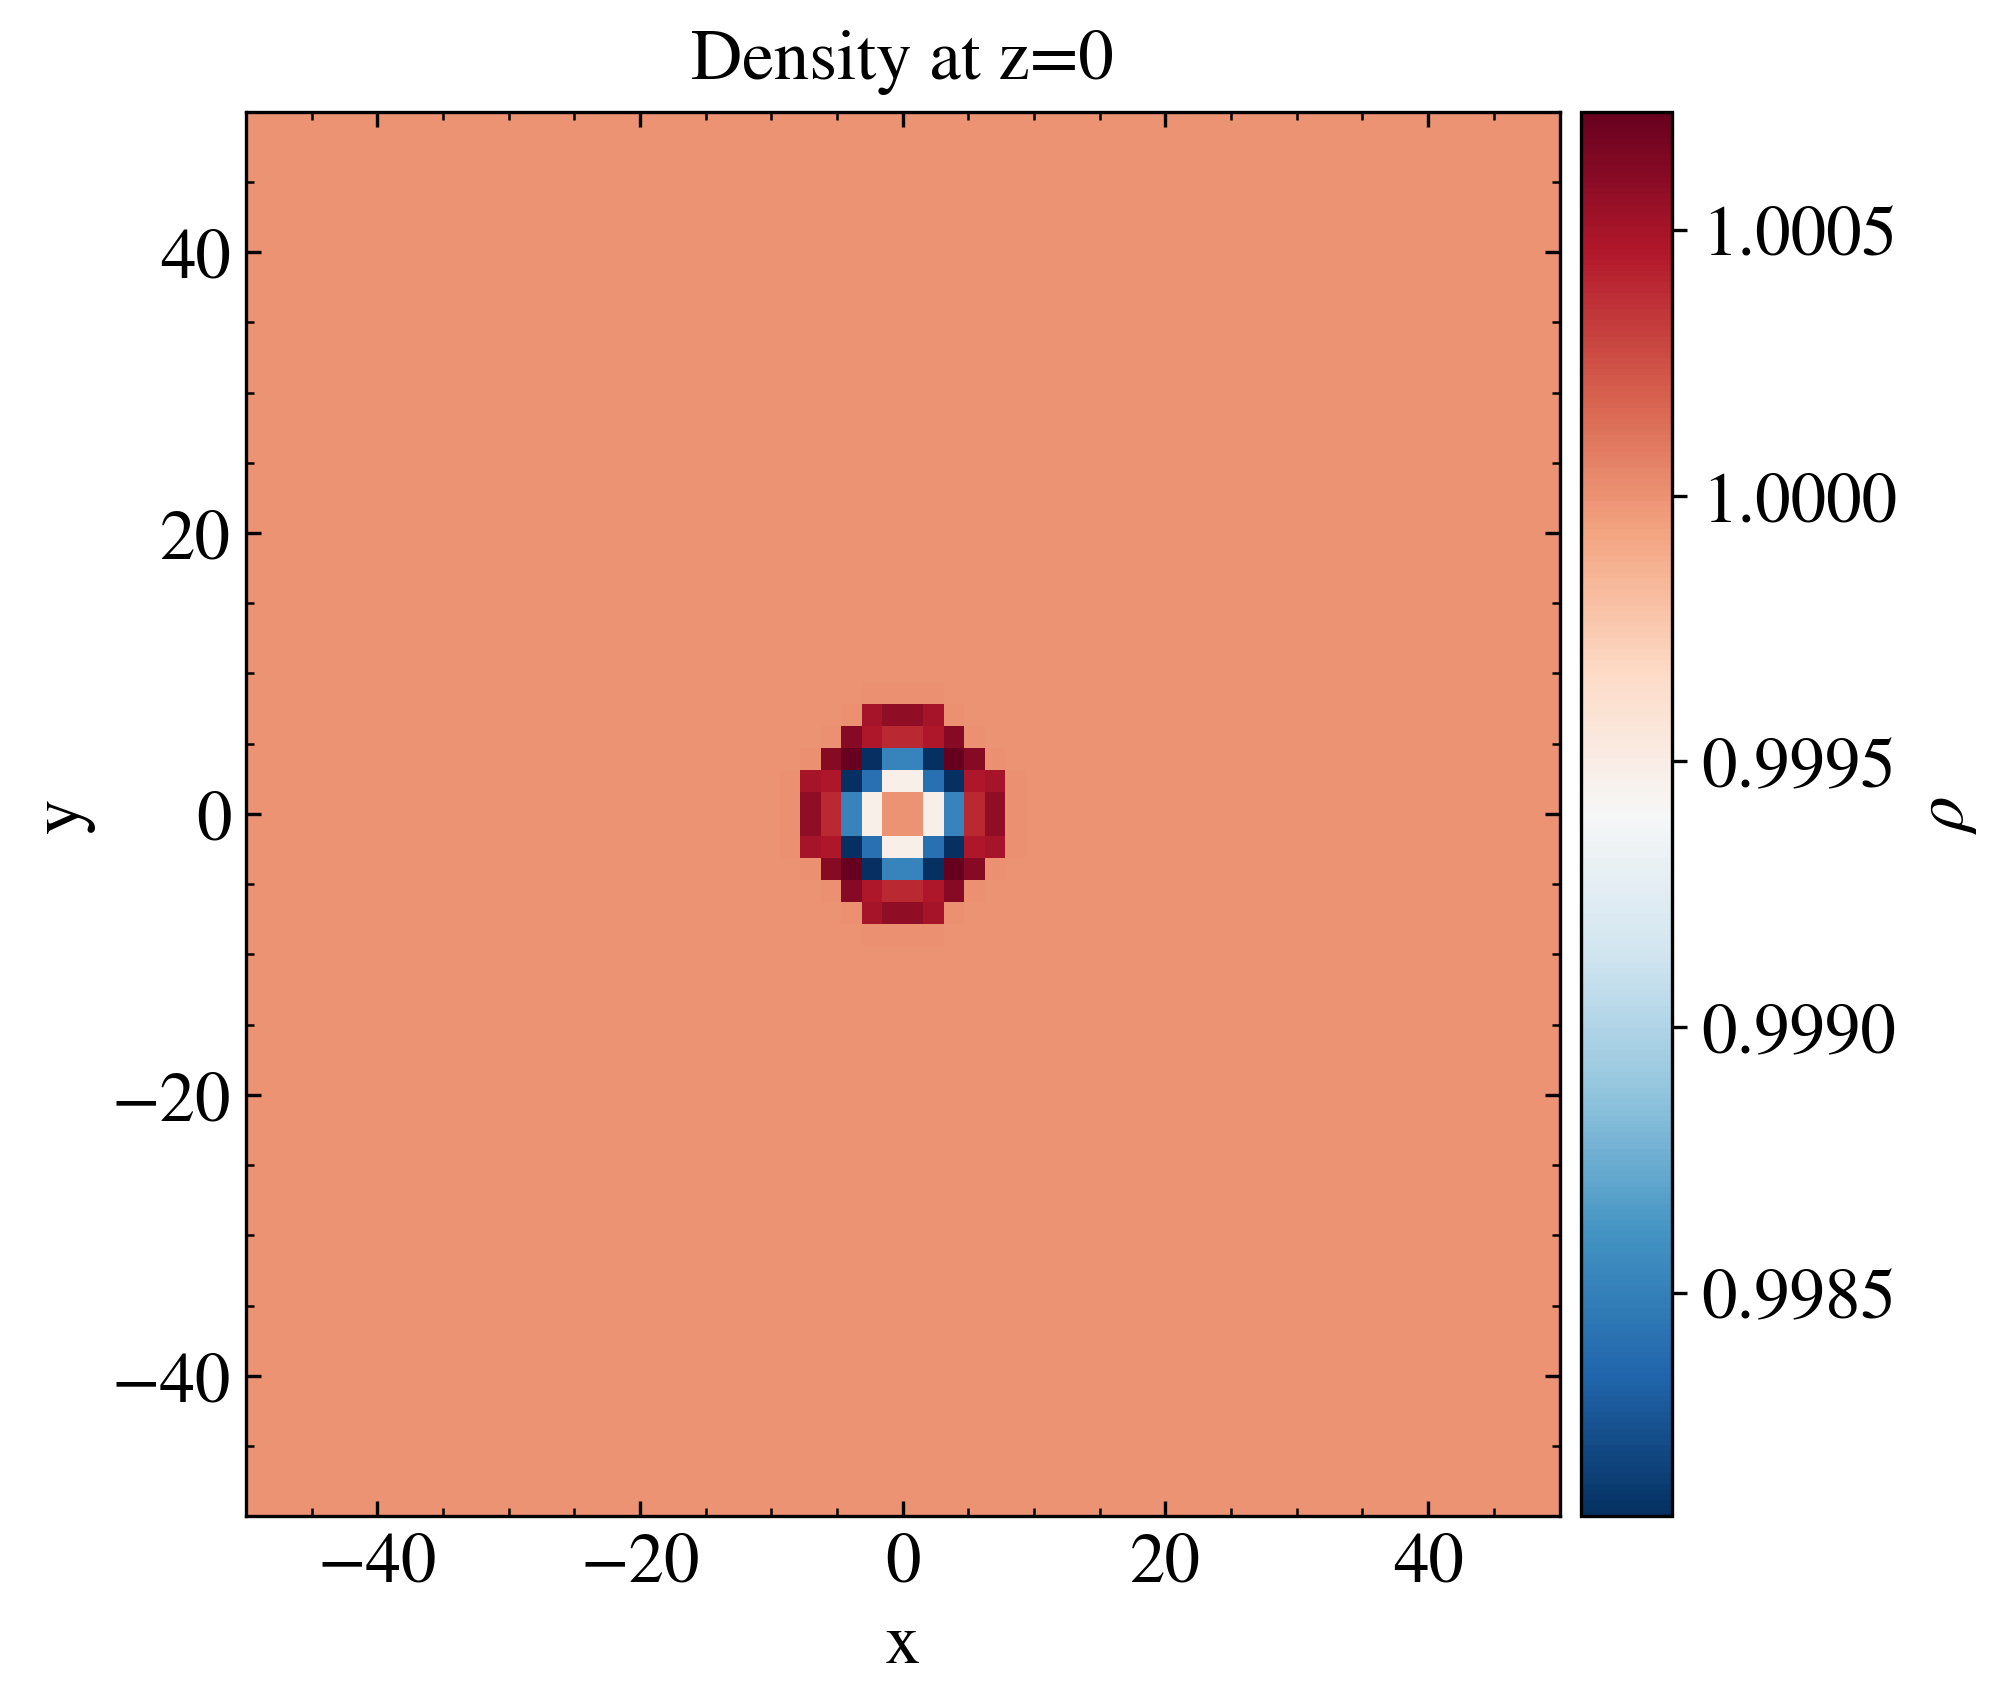
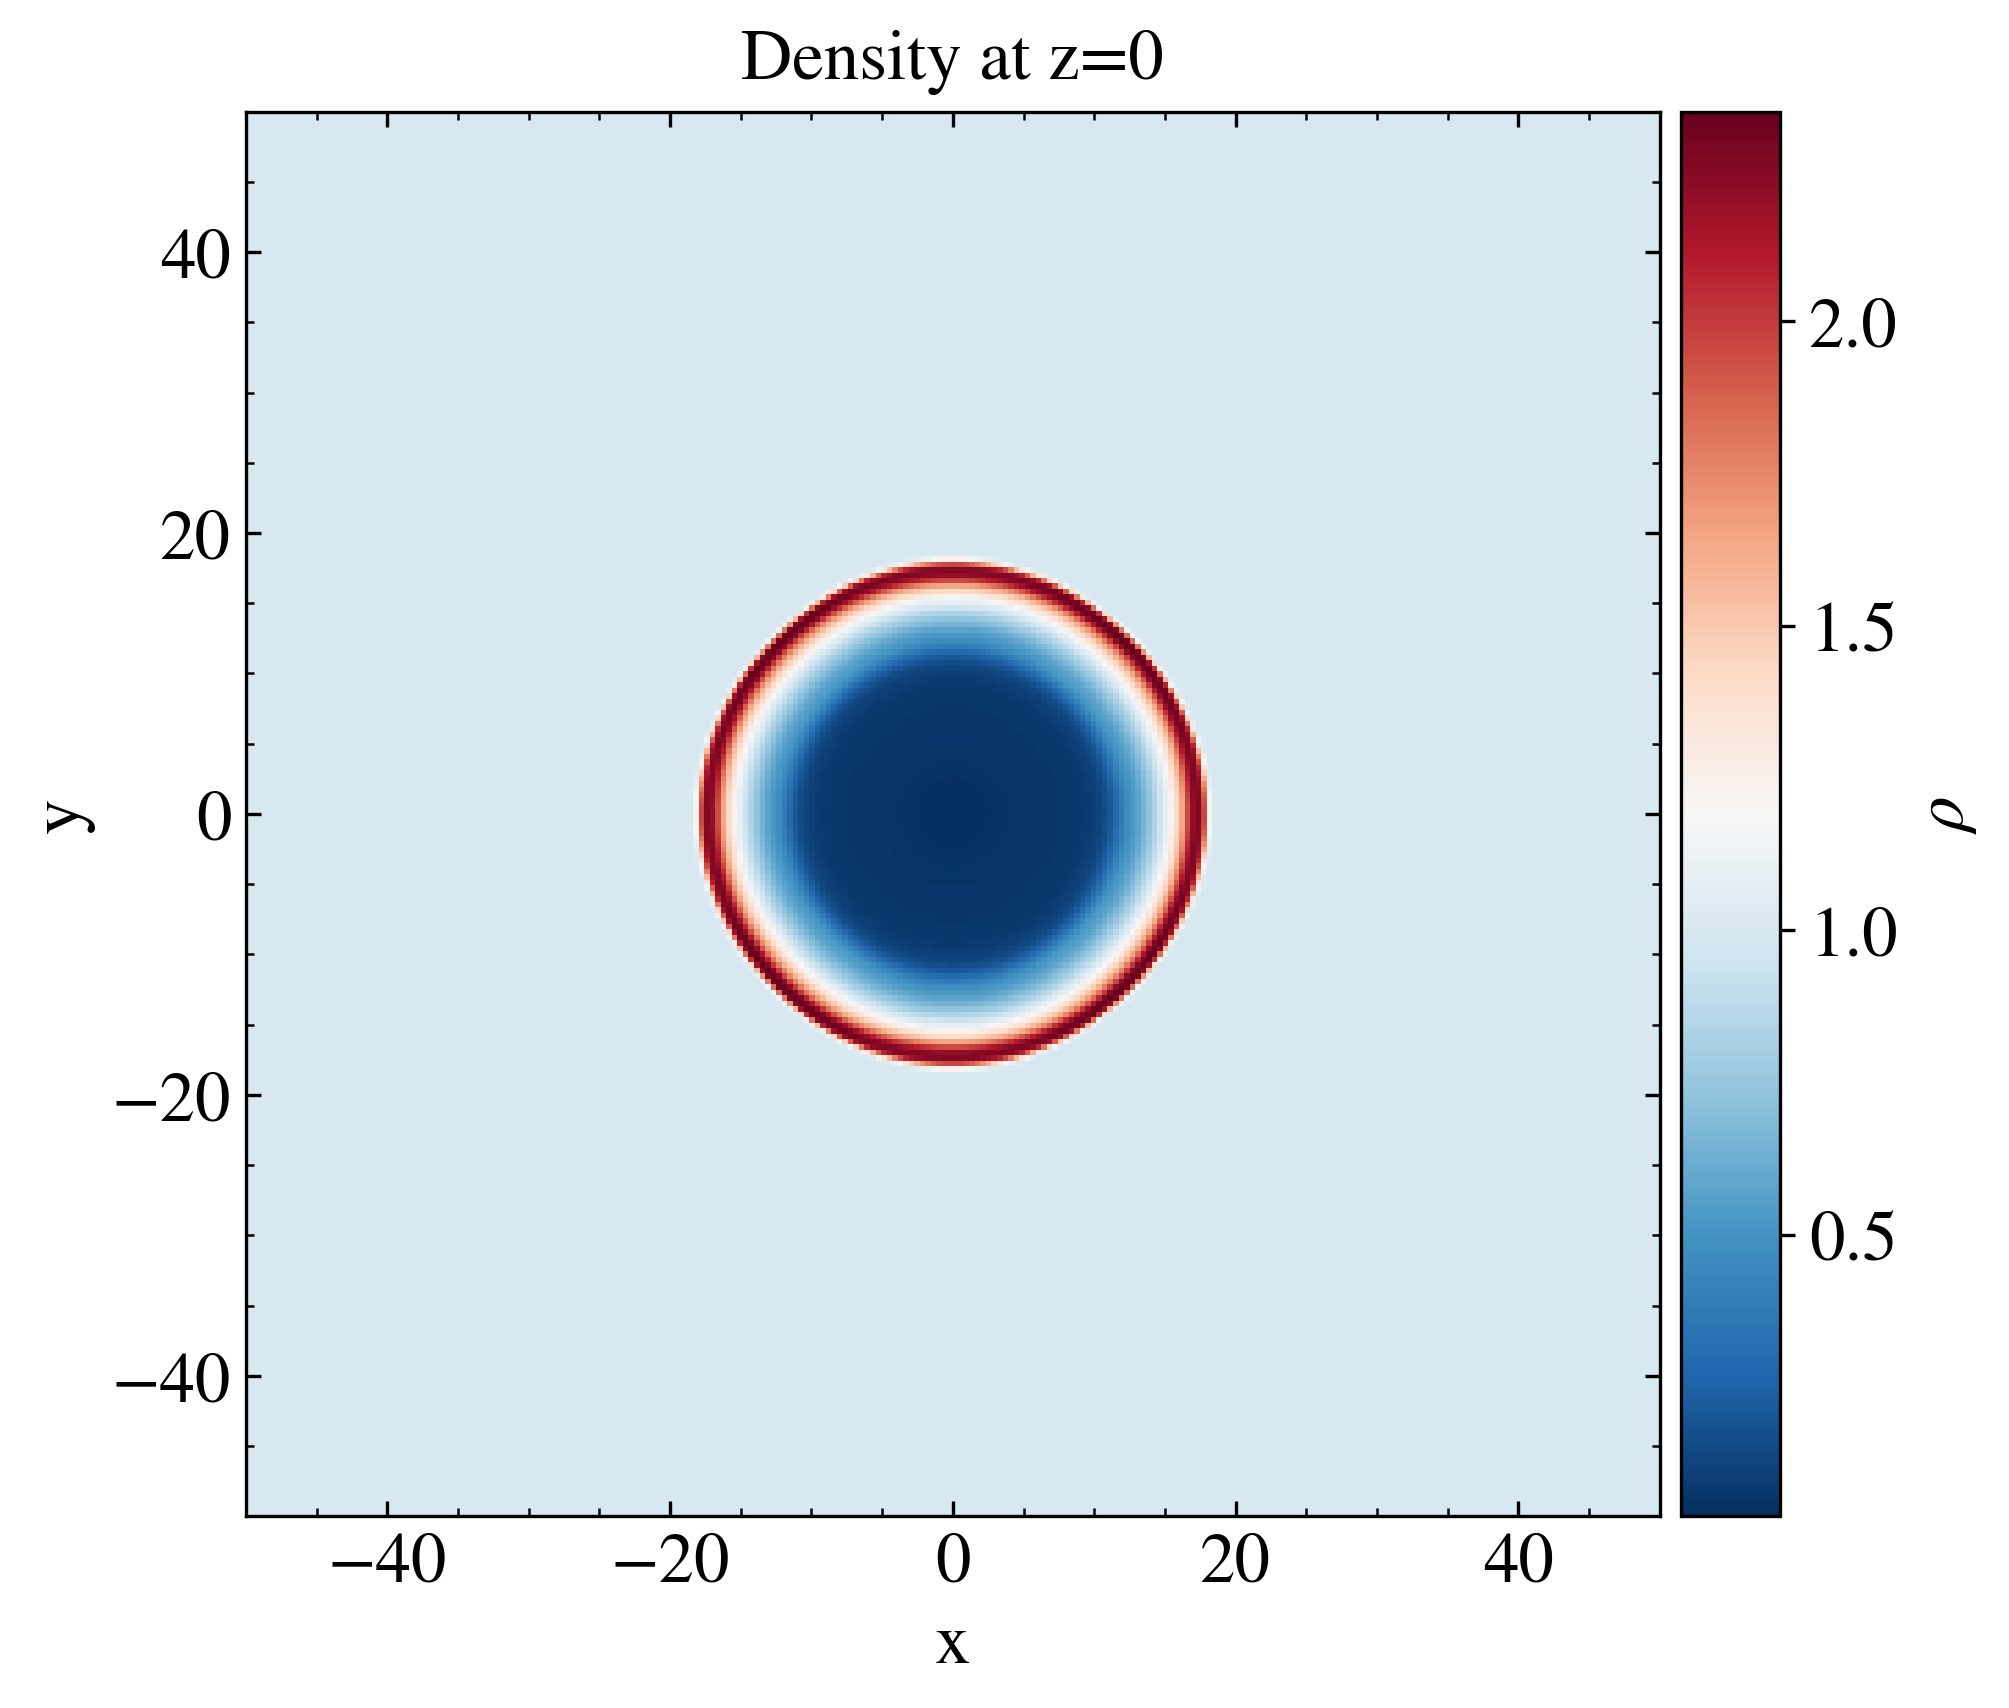
finer resolution

diff --git a/Bubble/init.cpp b/Bubble/init.cpp
@@ -1,9 +1,5 @@
 #include "gpluto.hpp"
 
-////////////////////////////////////////////////////////////////////////
-/*!
-*/
-////////////////////////////////////////////////////////////////////////
 void Init (double *v, double x1, double x2, double x3, RunConfig &run_config)
 {
   double *inputParam = run_config.inputParam;